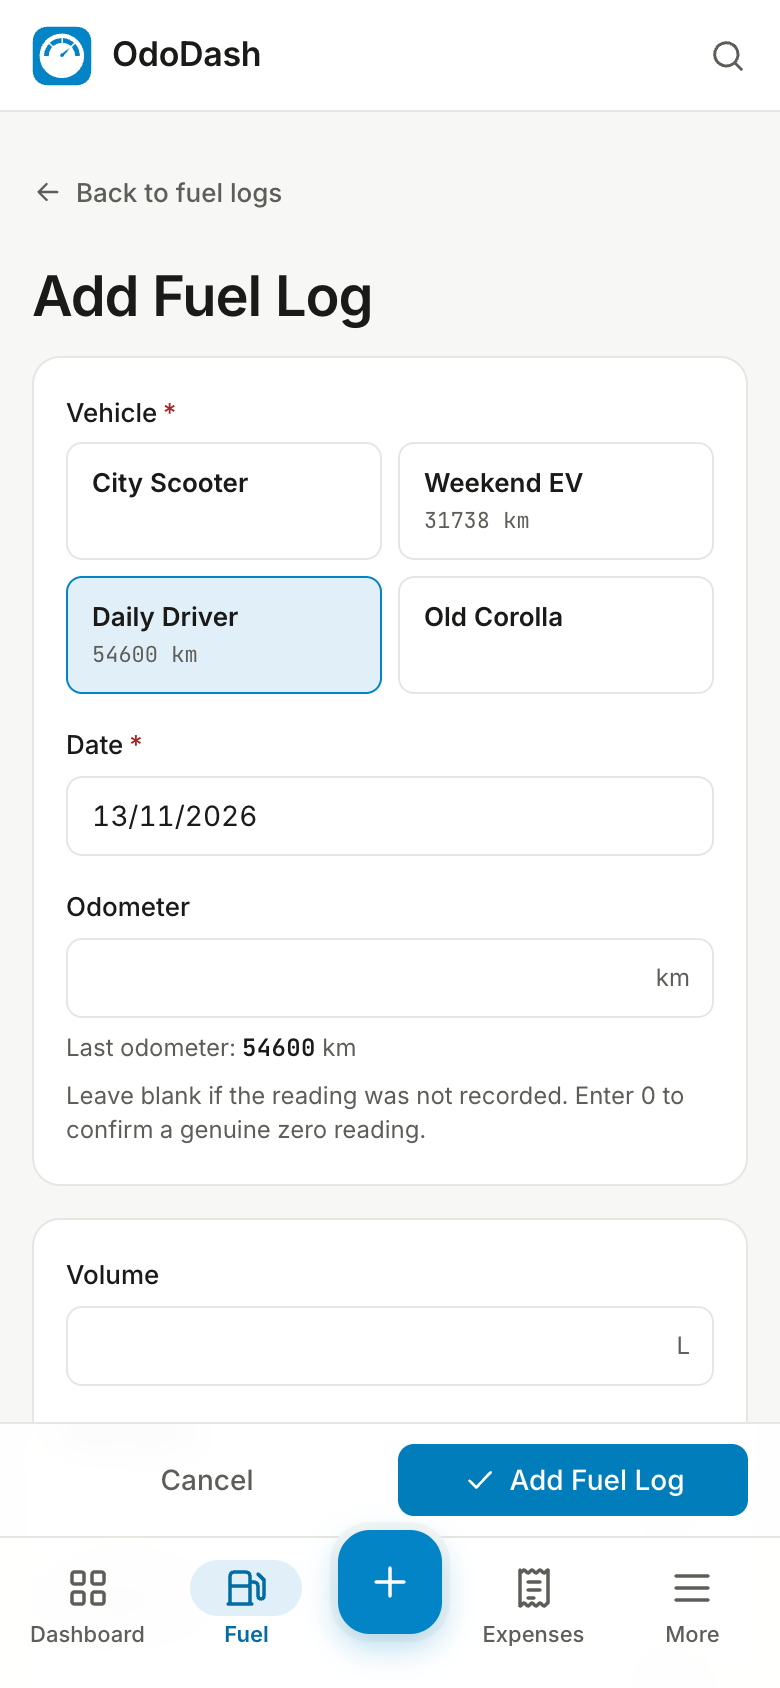
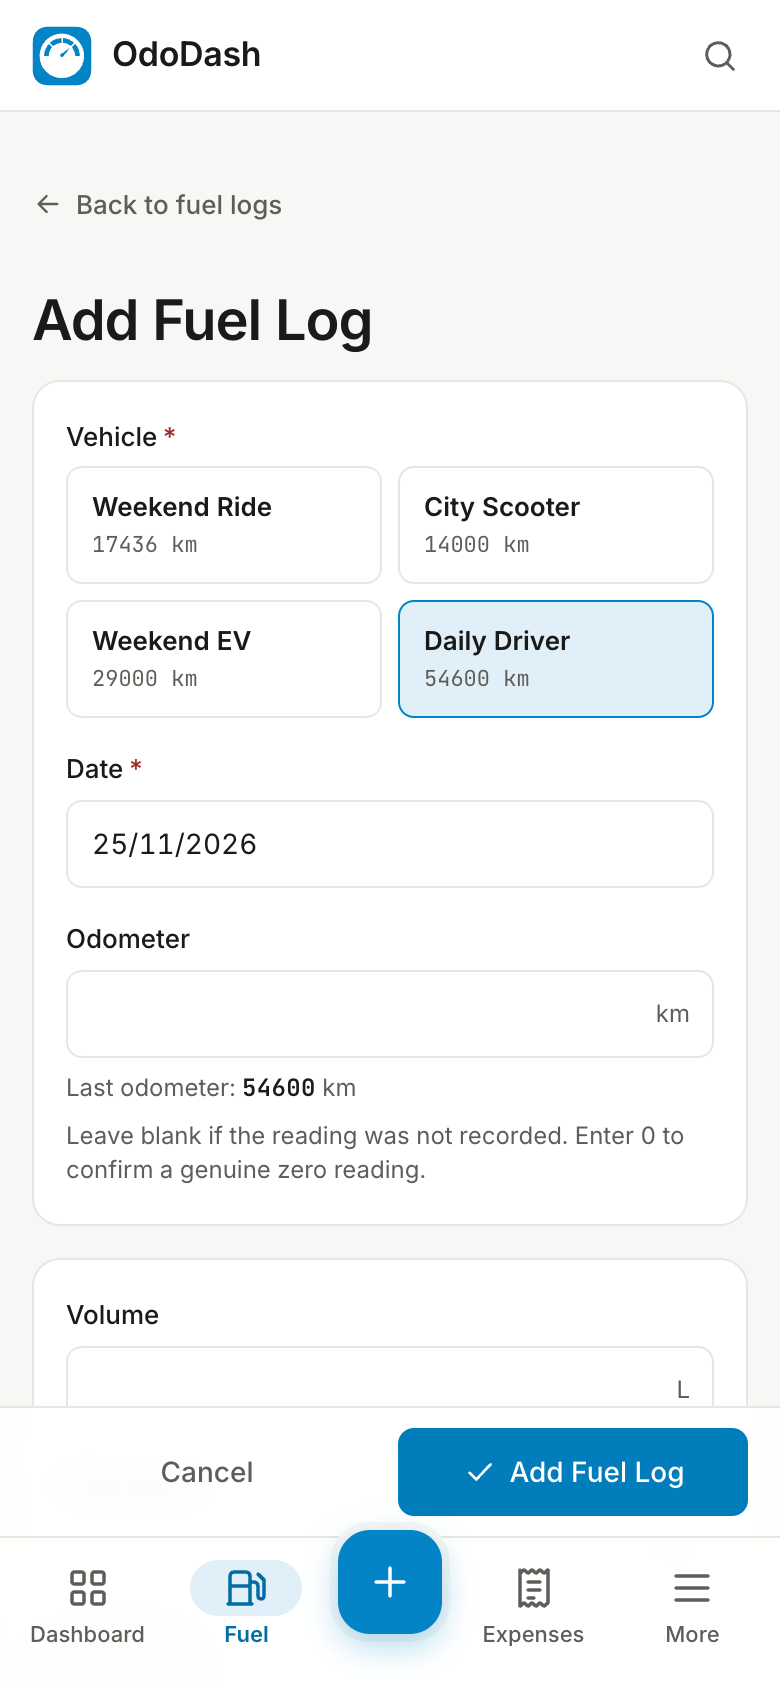
docs: retake the product screenshots for 0.52.0 and add Telegram to the landing page

diff --git a/site/index.html b/site/index.html
@@ -593,8 +593,8 @@ footer { margin-top: 96px; padding: 40px 0 56px; border-top: 1px solid var(--lin
     </div>
     <div class="marquee reveal" aria-label="Integrations">
       <div class="marquee-track">
-        <span class="chip">Home Assistant</span><span class="chip">REST API</span><span class="chip">Calendar subscription</span><span class="chip">ntfy</span><span class="chip">Pushover</span><span class="chip">Webhooks</span><span class="chip">Email (SMTP)</span><span class="chip">UK fuel prices</span><span class="chip">DVLA lookup</span><span class="chip">Fuelly CSV import</span><span class="chip">May backups</span><span class="chip">PostgreSQL</span><span class="chip">SQLite</span>
-        <span class="chip" aria-hidden="true">Home Assistant</span><span class="chip" aria-hidden="true">REST API</span><span class="chip" aria-hidden="true">Calendar subscription</span><span class="chip" aria-hidden="true">ntfy</span><span class="chip" aria-hidden="true">Pushover</span><span class="chip" aria-hidden="true">Webhooks</span><span class="chip" aria-hidden="true">Email (SMTP)</span><span class="chip" aria-hidden="true">UK fuel prices</span><span class="chip" aria-hidden="true">DVLA lookup</span><span class="chip" aria-hidden="true">Fuelly CSV import</span><span class="chip" aria-hidden="true">May backups</span><span class="chip" aria-hidden="true">PostgreSQL</span><span class="chip" aria-hidden="true">SQLite</span>
+        <span class="chip">Home Assistant</span><span class="chip">REST API</span><span class="chip">Calendar subscription</span><span class="chip">ntfy</span><span class="chip">Pushover</span><span class="chip">Telegram</span><span class="chip">Webhooks</span><span class="chip">Email (SMTP)</span><span class="chip">UK fuel prices</span><span class="chip">DVLA lookup</span><span class="chip">Fuelly CSV import</span><span class="chip">May backups</span><span class="chip">PostgreSQL</span><span class="chip">SQLite</span>
+        <span class="chip" aria-hidden="true">Home Assistant</span><span class="chip" aria-hidden="true">REST API</span><span class="chip" aria-hidden="true">Calendar subscription</span><span class="chip" aria-hidden="true">ntfy</span><span class="chip" aria-hidden="true">Pushover</span><span class="chip" aria-hidden="true">Telegram</span><span class="chip" aria-hidden="true">Webhooks</span><span class="chip" aria-hidden="true">Email (SMTP)</span><span class="chip" aria-hidden="true">UK fuel prices</span><span class="chip" aria-hidden="true">DVLA lookup</span><span class="chip" aria-hidden="true">Fuelly CSV import</span><span class="chip" aria-hidden="true">May backups</span><span class="chip" aria-hidden="true">PostgreSQL</span><span class="chip" aria-hidden="true">SQLite</span>
       </div>
     </div>
   </section>

diff --git a/scripts/screenshots/seed.py b/scripts/screenshots/seed.py
@@ -1,0 +1,58 @@
+"""Add a richer sample garage to the demo database before retaking screenshots.
+
+The demo seed creates two vehicles. The README and the landing page show four,
+with charging sessions and a cheapest-fuel card, so this adds an EV, a scooter,
+some charging sessions, fuel logs and station prices. Run it with the same
+DEMO_MODE, SECRET_KEY and DATABASE_URL as the server (see take.cjs). It only
+ever writes to the database those variables point at.
+"""
+import random
+import sys
+from datetime import date, timedelta
+from pathlib import Path
+
+sys.path.insert(0, str(Path(__file__).resolve().parents[2]))
+
+from app import create_app, db  # noqa: E402
+from app.models import ChargingSession, FuelLog, FuelPriceHistory, FuelStation, User, Vehicle
+
+app = create_app()
+with app.app_context():
+    user = User.query.first()
+    today = date.today()
+    rng = random.Random(7)
+
+    stations = [FuelStation(user_id=user.id, name=name, brand=brand, is_favorite=fav)
+                for name, brand, fav in (('Riverside Fuel', 'Shell', True),
+                                         ('Central Garage', None, False),
+                                         ('Harbour Road Station', 'BP', False))]
+    db.session.add_all(stations)
+    db.session.flush()
+    for station, price in zip(stations, (1.529, 1.489, 1.559)):
+        db.session.add(FuelPriceHistory(station_id=station.id, user_id=user.id, date=today - timedelta(days=2),
+                                        fuel_type='petrol', price_per_unit=price))
+
+    ev = Vehicle(owner=user, name='Weekend EV', vehicle_type='car', make='Tesla', model='Model 3', year=2022,
+                 registration='EV 22', fuel_type='electric', purchase_date=today - timedelta(days=500))
+    scooter = Vehicle(owner=user, name='City Scooter', vehicle_type='motorbike', make='Honda', model='Dio',
+                      year=2019, registration='CITY 19', fuel_type='petrol', tank_capacity=5,
+                      purchase_date=today - timedelta(days=900))
+    db.session.add_all([ev, scooter])
+    db.session.flush()
+
+    for i in range(9):
+        kwh = round(rng.uniform(32, 48), 1)
+        cost_kwh = round(rng.uniform(0.14, 0.22), 3)
+        db.session.add(ChargingSession(
+            vehicle_id=ev.id, user_id=user.id, date=today - timedelta(days=12 + i * 31),
+            odometer=29_000 - i * 650, kwh_added=kwh, start_soc=rng.randint(18, 32),
+            end_soc=rng.randint(78, 92), cost_per_kwh=cost_kwh, total_cost=round(kwh * cost_kwh, 2),
+            charger_type='home', location='Home'))
+    for i in range(8):
+        volume = round(rng.uniform(3.6, 4.8), 1)
+        price = round(1.50 + rng.random() * 0.1, 3)
+        db.session.add(FuelLog(vehicle_id=scooter.id, user_id=user.id, date=today - timedelta(days=9 + i * 24),
+                               odometer=14_000 - i * 210, volume=volume, price_per_unit=price,
+                               total_cost=round(volume * price, 2), is_full_tank=True))
+    db.session.commit()
+    print('added 2 vehicles, 3 stations, 9 charging sessions and 8 scooter fills')

diff --git a/CHANGELOG.md b/CHANGELOG.md
@@ -13,6 +13,7 @@ This file starts at 0.28.0. Notes for earlier releases are on the
 ### Changed
 
 - The Station field on the Add and Edit Fuel Log form is a select menu of your saved stations, with a text box beside it for any other name, the same as the quick-fuel form. It used to be a text box with a suggestion list that only offered stations matching what it already held, so after a station was renamed the list looked empty (#38).
+- The README and landing page screenshots are retaken for 0.52.0 (new logo, gauge colours, net cost setting), and the landing page lists Telegram among the integrations. `scripts/screenshots/` retakes them from a local demo.
 - Dependencies: `certifi` >= 2026.11.20, `pytest` >= 9.2.0, `coverage` >= 7.17.4.
 - Dependabot now sends the Python updates as one monthly pull request, skips patch releases (every image build already installs the newest release that satisfies `requirements.txt`), and no longer proposes Python base image bumps; moving to a new Python version is done by hand.
 

diff --git a/docs/roadmap.md b/docs/roadmap.md
@@ -154,8 +154,9 @@ maintainer needs; **0.54.0** follows; items with no target are open for contribu
 - [ ] **Parts and supplies stock** that records can draw from (LubeLogger).
       OdoDash has Parts per vehicle; this would be stock across vehicles.
 - [ ] **Dashboard widgets the user can rearrange** (Tracktor).
-- [ ] **Fresh product screenshots.** The README and the landing page still
-      show 0.49.0 (blue accent). Retake them in light, dark and phone.
+- [x] **Fresh product screenshots.** Retaken for 0.52.0 on 2026-11-25 with
+      `scripts/screenshots/` (light, dark, accent, settings, branding, phone). They
+      reach the landing page with the next release merge.
 
 Not planned for now: OBD2/Torque/WiCAN telemetry (MyGarage) and AI helpers,
 which are far from the current scope.
